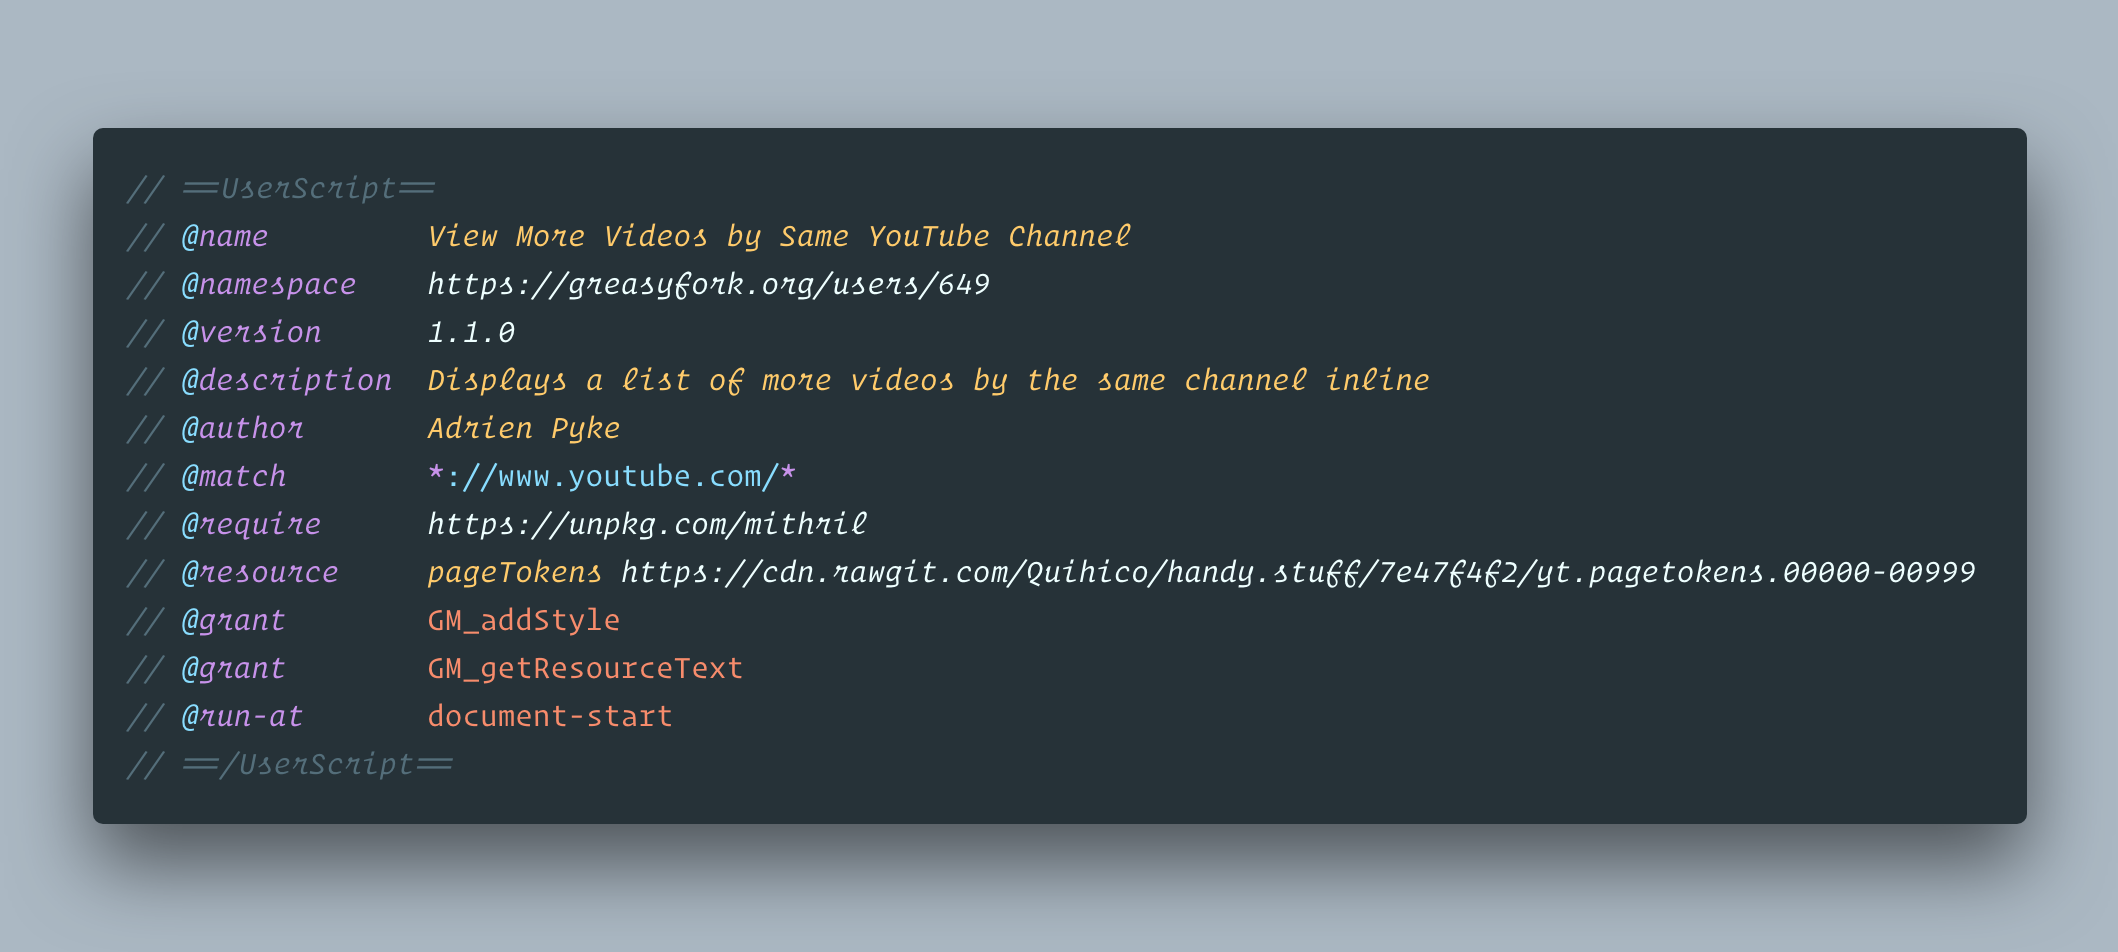
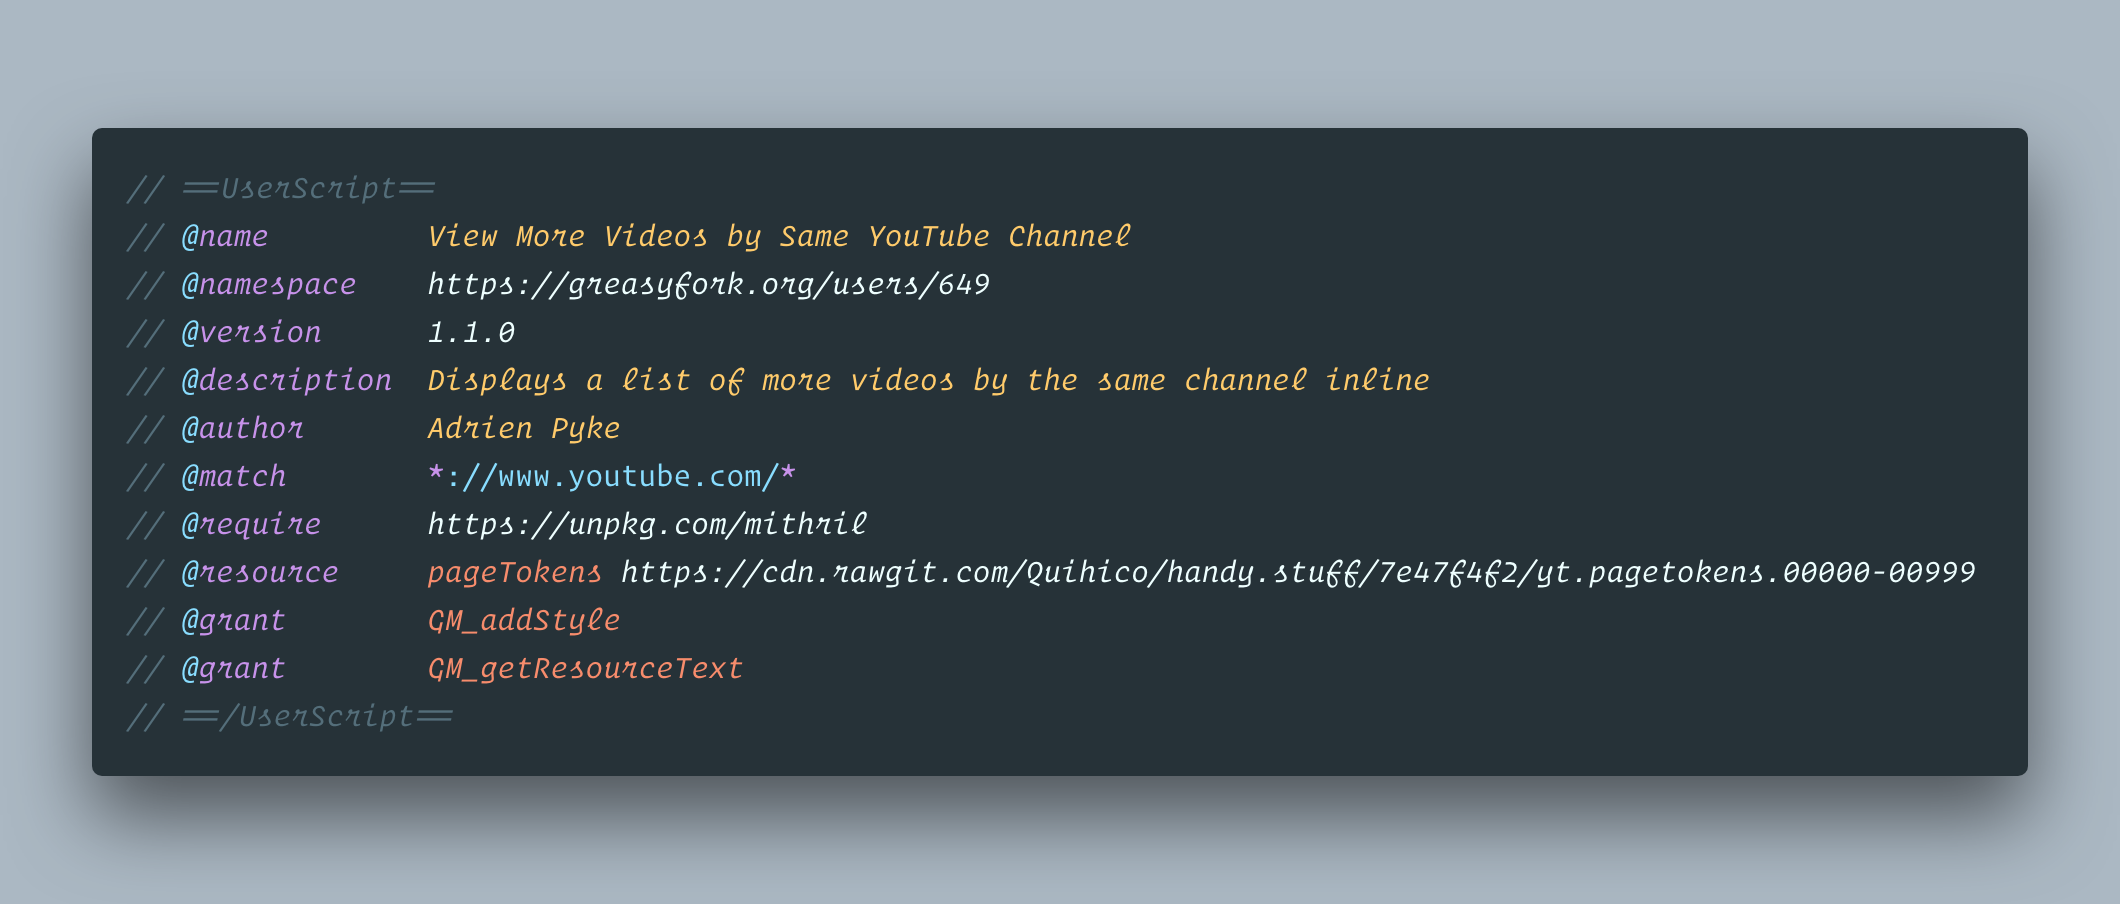
Fixed some inconsistencies in the highlighting

Changed region(s): [[0.0623, 0.1858, 0.9348, 0.8053], [0.0312, 0.8363, 0.966, 0.8673], [0.0312, 0.1239, 0.966, 0.1549]]

diff --git a/CHANGELOG.md b/CHANGELOG.md
@@ -4,10 +4,21 @@ All notable changes to the "vscode-userscript" extension will be documented in t
 
 Check [Keep a Changelog](http://keepachangelog.com/) for recommendations on how to structure this file.
 
-## [1.0.0]
+## [1.1.1]
 
-- Initial release
+### Fixed
+
+- Fixed some inconsistencies in the highlighting
+- Don't highlight invalid values
 
 ## [1.1.0]
 
+### Changed
+
 - Context aware highlighting
+
+## [1.0.0]
+
+### Added
+
+- Initial release
